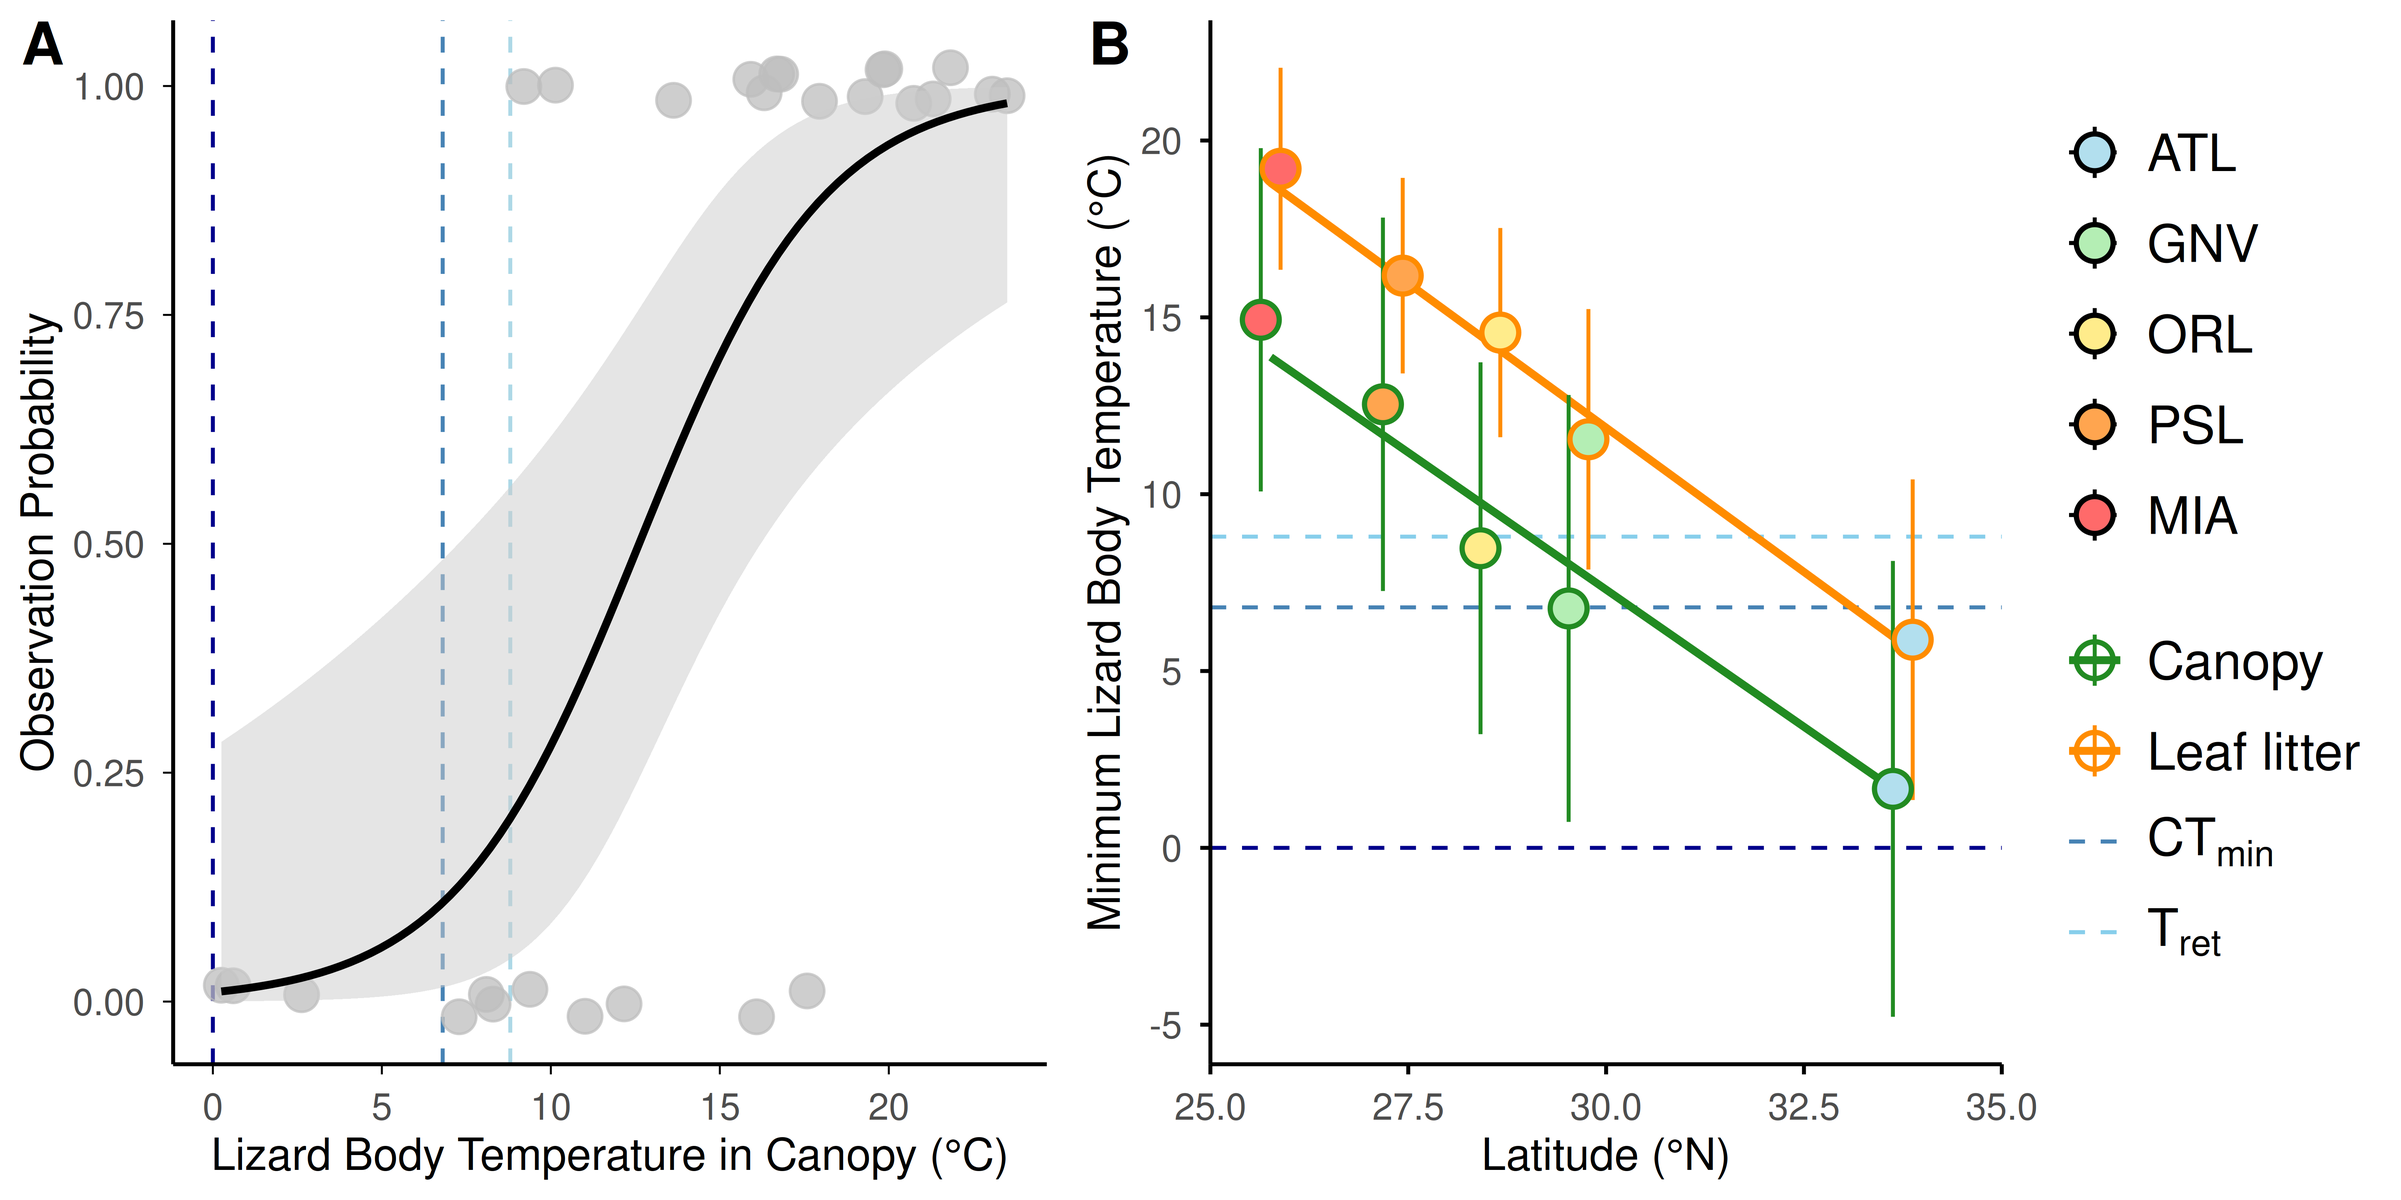
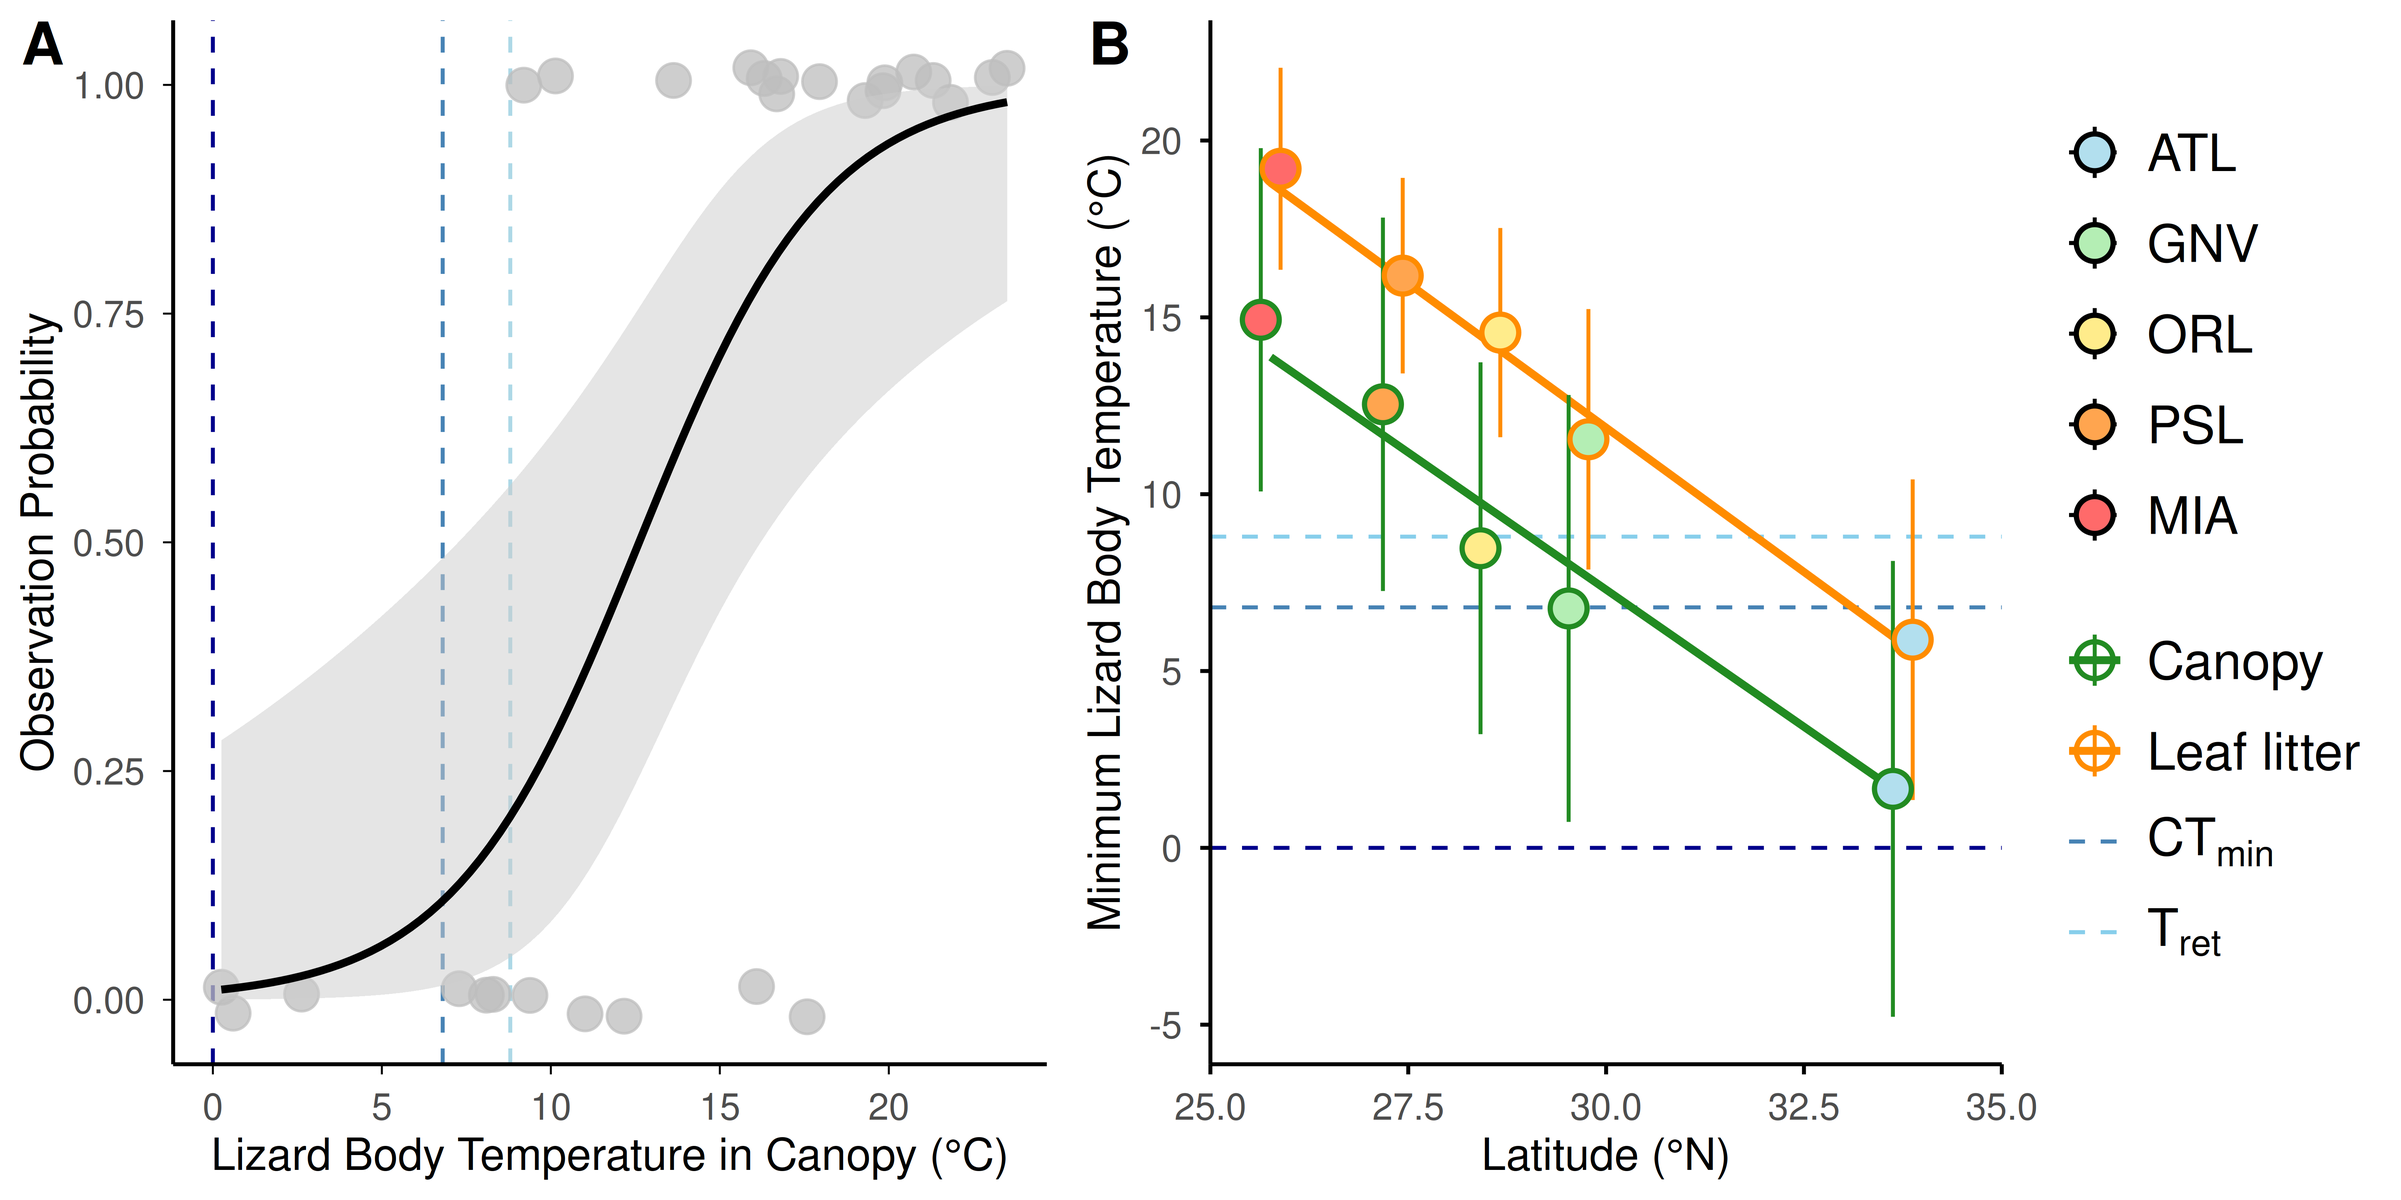
updating some tables

diff --git a/docs/leaf-litter-retreat.html b/docs/leaf-litter-retreat.html
@@ -305,7 +305,7 @@ pre > code.sourceCode > span > a:first-child::before { text-decoration: underlin
 <span id="cb2-87"><a href="#cb2-87" aria-hidden="true" tabindex="-1"></a><span class="co"># plot observation probability and OTM data</span></span>
 <span id="cb2-88"><a href="#cb2-88" aria-hidden="true" tabindex="-1"></a>obs_plot <span class="ot">&lt;-</span> <span class="fu">ggplot</span>() <span class="sc">+</span></span>
 <span id="cb2-89"><a href="#cb2-89" aria-hidden="true" tabindex="-1"></a>  <span class="fu">geom_hline</span>(</span>
-<span id="cb2-90"><a href="#cb2-90" aria-hidden="true" tabindex="-1"></a>    <span class="at">yintercept =</span> <span class="fu">c</span>(<span class="dv">1</span>, <span class="dv">0</span>, ctmin_atl <span class="sc">/</span> <span class="fu">max</span>(otm_data_ATL<span class="sc">$</span>mean_temp, <span class="at">na.rm =</span> <span class="cn">TRUE</span>)),</span>
+<span id="cb2-90"><a href="#cb2-90" aria-hidden="true" tabindex="-1"></a>    <span class="at">yintercept =</span> <span class="fu">c</span>(<span class="dv">1</span>, <span class="dv">0</span>, <span class="fl">6.8</span> <span class="sc">/</span> <span class="fu">max</span>(otm_data_ATL<span class="sc">$</span>mean_temp, <span class="at">na.rm =</span> <span class="cn">TRUE</span>)),</span>
 <span id="cb2-91"><a href="#cb2-91" aria-hidden="true" tabindex="-1"></a>    <span class="at">linetype =</span> <span class="st">"dashed"</span>,</span>
 <span id="cb2-92"><a href="#cb2-92" aria-hidden="true" tabindex="-1"></a>    <span class="at">color =</span> <span class="fu">c</span>(<span class="st">"gray80"</span>, <span class="st">"darkblue"</span>, <span class="st">"steelblue"</span>),</span>
 <span id="cb2-93"><a href="#cb2-93" aria-hidden="true" tabindex="-1"></a>    <span class="at">alpha =</span> <span class="fl">0.5</span></span>
@@ -743,42 +743,47 @@ pre > code.sourceCode > span > a:first-child::before { text-decoration: underlin
 <details class="code-fold">
 <summary>Code</summary>
 <div class="code-copy-outer-scaffold"><div class="sourceCode cell-code" id="cb15"><pre class="sourceCode r code-with-copy"><code class="sourceCode r"><span id="cb15-1"><a href="#cb15-1" aria-hidden="true" tabindex="-1"></a>otms_data_sum <span class="sc">|&gt;</span></span>
-<span id="cb15-2"><a href="#cb15-2" aria-hidden="true" tabindex="-1"></a>  <span class="fu">group_by</span>(location, lat, microhabitat) <span class="sc">|&gt;</span></span>
+<span id="cb15-2"><a href="#cb15-2" aria-hidden="true" tabindex="-1"></a>  <span class="fu">group_by</span>(location, lat, microhabitat, id) <span class="sc">|&gt;</span></span>
 <span id="cb15-3"><a href="#cb15-3" aria-hidden="true" tabindex="-1"></a>  <span class="fu">summarise</span>(</span>
 <span id="cb15-4"><a href="#cb15-4" aria-hidden="true" tabindex="-1"></a>    <span class="at">mean_min_temp =</span> <span class="fu">mean</span>(min_temp, <span class="at">na.rm =</span> <span class="cn">TRUE</span>),</span>
-<span id="cb15-5"><a href="#cb15-5" aria-hidden="true" tabindex="-1"></a>    <span class="at">sd_min_temp =</span> <span class="fu">sd</span>(min_temp, <span class="at">na.rm =</span> <span class="cn">TRUE</span>),</span>
-<span id="cb15-6"><a href="#cb15-6" aria-hidden="true" tabindex="-1"></a>    <span class="at">n =</span> <span class="fu">n</span>()</span>
-<span id="cb15-7"><a href="#cb15-7" aria-hidden="true" tabindex="-1"></a>  ) <span class="sc">|&gt;</span></span>
-<span id="cb15-8"><a href="#cb15-8" aria-hidden="true" tabindex="-1"></a>  <span class="fu">mutate</span>(</span>
-<span id="cb15-9"><a href="#cb15-9" aria-hidden="true" tabindex="-1"></a>    <span class="at">est =</span> <span class="fu">paste</span>(</span>
-<span id="cb15-10"><a href="#cb15-10" aria-hidden="true" tabindex="-1"></a>      <span class="fu">round</span>(mean_min_temp, <span class="dv">1</span>), <span class="st">"±"</span>,</span>
-<span id="cb15-11"><a href="#cb15-11" aria-hidden="true" tabindex="-1"></a>      <span class="fu">round</span>(sd_min_temp, <span class="dv">1</span>), <span class="st">"°C (n ="</span>, n, <span class="st">")"</span></span>
-<span id="cb15-12"><a href="#cb15-12" aria-hidden="true" tabindex="-1"></a>    ),</span>
-<span id="cb15-13"><a href="#cb15-13" aria-hidden="true" tabindex="-1"></a>  ) <span class="sc">|&gt;</span></span>
-<span id="cb15-14"><a href="#cb15-14" aria-hidden="true" tabindex="-1"></a>  <span class="fu">mutate</span>(</span>
-<span id="cb15-15"><a href="#cb15-15" aria-hidden="true" tabindex="-1"></a>    <span class="at">microhabitat =</span> <span class="fu">ifelse</span>(microhabitat <span class="sc">==</span> <span class="st">"branch"</span>, <span class="st">"Canopy"</span>, <span class="st">"Leaf litter"</span>)</span>
-<span id="cb15-16"><a href="#cb15-16" aria-hidden="true" tabindex="-1"></a>  ) <span class="sc">|&gt;</span></span>
-<span id="cb15-17"><a href="#cb15-17" aria-hidden="true" tabindex="-1"></a>  <span class="fu">select</span>(location, lat, microhabitat, est, mean_min_temp) <span class="sc">|&gt;</span></span>
-<span id="cb15-18"><a href="#cb15-18" aria-hidden="true" tabindex="-1"></a>  <span class="fu">pivot_wider</span>(</span>
-<span id="cb15-19"><a href="#cb15-19" aria-hidden="true" tabindex="-1"></a>    <span class="at">names_from =</span> microhabitat,</span>
-<span id="cb15-20"><a href="#cb15-20" aria-hidden="true" tabindex="-1"></a>    <span class="at">values_from =</span> <span class="fu">c</span>(est, mean_min_temp)</span>
+<span id="cb15-5"><a href="#cb15-5" aria-hidden="true" tabindex="-1"></a>    <span class="at">abs_min_temp =</span> <span class="fu">min</span>(min_temp, <span class="at">na.rm =</span> <span class="cn">TRUE</span>)</span>
+<span id="cb15-6"><a href="#cb15-6" aria-hidden="true" tabindex="-1"></a>  ) <span class="sc">|&gt;</span></span>
+<span id="cb15-7"><a href="#cb15-7" aria-hidden="true" tabindex="-1"></a>  <span class="fu">group_by</span>(location, lat, microhabitat) <span class="sc">|&gt;</span></span>
+<span id="cb15-8"><a href="#cb15-8" aria-hidden="true" tabindex="-1"></a>  <span class="fu">summarise</span>(</span>
+<span id="cb15-9"><a href="#cb15-9" aria-hidden="true" tabindex="-1"></a>    <span class="at">mean_mt =</span> <span class="fu">mean</span>(mean_min_temp, <span class="at">na.rm =</span> <span class="cn">TRUE</span>),</span>
+<span id="cb15-10"><a href="#cb15-10" aria-hidden="true" tabindex="-1"></a>    <span class="at">sd_mt =</span> <span class="fu">sd</span>(mean_min_temp, <span class="at">na.rm =</span> <span class="cn">TRUE</span>),</span>
+<span id="cb15-11"><a href="#cb15-11" aria-hidden="true" tabindex="-1"></a>    <span class="at">abs_mt =</span> <span class="fu">mean</span>(abs_min_temp, <span class="at">na.rm =</span> <span class="cn">TRUE</span>)</span>
+<span id="cb15-12"><a href="#cb15-12" aria-hidden="true" tabindex="-1"></a>  ) <span class="sc">|&gt;</span></span>
+<span id="cb15-13"><a href="#cb15-13" aria-hidden="true" tabindex="-1"></a>  <span class="fu">mutate</span>(</span>
+<span id="cb15-14"><a href="#cb15-14" aria-hidden="true" tabindex="-1"></a>    <span class="at">est =</span> <span class="fu">paste</span>(</span>
+<span id="cb15-15"><a href="#cb15-15" aria-hidden="true" tabindex="-1"></a>      <span class="fu">round</span>(mean_mt, <span class="dv">1</span>), <span class="st">"±"</span>,</span>
+<span id="cb15-16"><a href="#cb15-16" aria-hidden="true" tabindex="-1"></a>      <span class="fu">round</span>(sd_mt, <span class="dv">1</span>), <span class="st">"°C (min ="</span>, <span class="fu">round</span>(abs_mt, <span class="dv">1</span>), <span class="st">")"</span></span>
+<span id="cb15-17"><a href="#cb15-17" aria-hidden="true" tabindex="-1"></a>    ),</span>
+<span id="cb15-18"><a href="#cb15-18" aria-hidden="true" tabindex="-1"></a>  ) <span class="sc">|&gt;</span></span>
+<span id="cb15-19"><a href="#cb15-19" aria-hidden="true" tabindex="-1"></a>  <span class="fu">mutate</span>(</span>
+<span id="cb15-20"><a href="#cb15-20" aria-hidden="true" tabindex="-1"></a>    <span class="at">microhabitat =</span> <span class="fu">ifelse</span>(microhabitat <span class="sc">==</span> <span class="st">"branch"</span>, <span class="st">"Canopy"</span>, <span class="st">"Leaf litter"</span>)</span>
 <span id="cb15-21"><a href="#cb15-21" aria-hidden="true" tabindex="-1"></a>  ) <span class="sc">|&gt;</span></span>
-<span id="cb15-22"><a href="#cb15-22" aria-hidden="true" tabindex="-1"></a>  <span class="fu">mutate</span>(</span>
-<span id="cb15-23"><a href="#cb15-23" aria-hidden="true" tabindex="-1"></a>    <span class="at">buffering =</span> <span class="fu">round</span>(<span class="st">`</span><span class="at">mean_min_temp_Leaf litter</span><span class="st">`</span> <span class="sc">-</span> mean_min_temp_Canopy, <span class="dv">1</span>)</span>
-<span id="cb15-24"><a href="#cb15-24" aria-hidden="true" tabindex="-1"></a>  ) <span class="sc">|&gt;</span></span>
-<span id="cb15-25"><a href="#cb15-25" aria-hidden="true" tabindex="-1"></a>  <span class="fu">select</span>(location, lat, est_Canopy, <span class="st">`</span><span class="at">est_Leaf litter</span><span class="st">`</span>, buffering) <span class="sc">|&gt;</span></span>
-<span id="cb15-26"><a href="#cb15-26" aria-hidden="true" tabindex="-1"></a>  <span class="fu">kbl</span>(</span>
-<span id="cb15-27"><a href="#cb15-27" aria-hidden="true" tabindex="-1"></a>    <span class="at">col.names =</span> <span class="fu">c</span>(</span>
-<span id="cb15-28"><a href="#cb15-28" aria-hidden="true" tabindex="-1"></a>      <span class="st">"Location"</span>, <span class="st">"Latitude (°N)"</span>, <span class="st">"Canopy"</span>,</span>
-<span id="cb15-29"><a href="#cb15-29" aria-hidden="true" tabindex="-1"></a>      <span class="st">"Leaf litter"</span>, <span class="st">"Average Buffering (°C)"</span></span>
-<span id="cb15-30"><a href="#cb15-30" aria-hidden="true" tabindex="-1"></a>    ),</span>
-<span id="cb15-31"><a href="#cb15-31" aria-hidden="true" tabindex="-1"></a>    <span class="at">align =</span> <span class="st">"c"</span>,</span>
-<span id="cb15-32"><a href="#cb15-32" aria-hidden="true" tabindex="-1"></a>  ) <span class="sc">|&gt;</span></span>
-<span id="cb15-33"><a href="#cb15-33" aria-hidden="true" tabindex="-1"></a>  <span class="fu">kable_styling</span>(</span>
-<span id="cb15-34"><a href="#cb15-34" aria-hidden="true" tabindex="-1"></a>    <span class="at">full_width =</span> <span class="cn">FALSE</span>,</span>
-<span id="cb15-35"><a href="#cb15-35" aria-hidden="true" tabindex="-1"></a>    <span class="at">position =</span> <span class="st">"center"</span>,</span>
-<span id="cb15-36"><a href="#cb15-36" aria-hidden="true" tabindex="-1"></a>    <span class="at">font_size =</span> <span class="dv">12</span></span>
-<span id="cb15-37"><a href="#cb15-37" aria-hidden="true" tabindex="-1"></a>  )</span></code></pre></div><button title="Copy to Clipboard" class="code-copy-button"><i class="bi"></i></button></div>
+<span id="cb15-22"><a href="#cb15-22" aria-hidden="true" tabindex="-1"></a>  <span class="fu">select</span>(location, lat, microhabitat, est, mean_mt) <span class="sc">|&gt;</span></span>
+<span id="cb15-23"><a href="#cb15-23" aria-hidden="true" tabindex="-1"></a>  <span class="fu">pivot_wider</span>(</span>
+<span id="cb15-24"><a href="#cb15-24" aria-hidden="true" tabindex="-1"></a>    <span class="at">names_from =</span> microhabitat,</span>
+<span id="cb15-25"><a href="#cb15-25" aria-hidden="true" tabindex="-1"></a>    <span class="at">values_from =</span> <span class="fu">c</span>(est, mean_mt)</span>
+<span id="cb15-26"><a href="#cb15-26" aria-hidden="true" tabindex="-1"></a>  ) <span class="sc">|&gt;</span></span>
+<span id="cb15-27"><a href="#cb15-27" aria-hidden="true" tabindex="-1"></a>  <span class="fu">mutate</span>(</span>
+<span id="cb15-28"><a href="#cb15-28" aria-hidden="true" tabindex="-1"></a>    <span class="at">buffering =</span> <span class="fu">round</span>(<span class="st">`</span><span class="at">mean_mt_Leaf litter</span><span class="st">`</span> <span class="sc">-</span> mean_mt_Canopy, <span class="dv">1</span>)</span>
+<span id="cb15-29"><a href="#cb15-29" aria-hidden="true" tabindex="-1"></a>  ) <span class="sc">|&gt;</span></span>
+<span id="cb15-30"><a href="#cb15-30" aria-hidden="true" tabindex="-1"></a>  <span class="fu">select</span>(location, lat, est_Canopy, <span class="st">`</span><span class="at">est_Leaf litter</span><span class="st">`</span>, buffering) <span class="sc">|&gt;</span></span>
+<span id="cb15-31"><a href="#cb15-31" aria-hidden="true" tabindex="-1"></a>  <span class="fu">kbl</span>(</span>
+<span id="cb15-32"><a href="#cb15-32" aria-hidden="true" tabindex="-1"></a>    <span class="at">col.names =</span> <span class="fu">c</span>(</span>
+<span id="cb15-33"><a href="#cb15-33" aria-hidden="true" tabindex="-1"></a>      <span class="st">"Location"</span>, <span class="st">"Latitude (°N)"</span>, <span class="st">"Canopy"</span>,</span>
+<span id="cb15-34"><a href="#cb15-34" aria-hidden="true" tabindex="-1"></a>      <span class="st">"Leaf litter"</span>, <span class="st">"Average Buffering (°C)"</span></span>
+<span id="cb15-35"><a href="#cb15-35" aria-hidden="true" tabindex="-1"></a>    ),</span>
+<span id="cb15-36"><a href="#cb15-36" aria-hidden="true" tabindex="-1"></a>    <span class="at">align =</span> <span class="st">"c"</span>,</span>
+<span id="cb15-37"><a href="#cb15-37" aria-hidden="true" tabindex="-1"></a>  ) <span class="sc">|&gt;</span></span>
+<span id="cb15-38"><a href="#cb15-38" aria-hidden="true" tabindex="-1"></a>  <span class="fu">kable_styling</span>(</span>
+<span id="cb15-39"><a href="#cb15-39" aria-hidden="true" tabindex="-1"></a>    <span class="at">full_width =</span> <span class="cn">FALSE</span>,</span>
+<span id="cb15-40"><a href="#cb15-40" aria-hidden="true" tabindex="-1"></a>    <span class="at">position =</span> <span class="st">"center"</span>,</span>
+<span id="cb15-41"><a href="#cb15-41" aria-hidden="true" tabindex="-1"></a>    <span class="at">font_size =</span> <span class="dv">12</span></span>
+<span id="cb15-42"><a href="#cb15-42" aria-hidden="true" tabindex="-1"></a>  )</span></code></pre></div><button title="Copy to Clipboard" class="code-copy-button"><i class="bi"></i></button></div>
 </details>
 <div class="cell-output-display">
 <table quarto-disable-processing="true" class="table" style="font-size: 12px; width: auto !important; margin-left: auto; margin-right: auto;">
@@ -795,36 +800,36 @@ pre > code.sourceCode > span > a:first-child::before { text-decoration: underlin
   <tr>
    <td style="text-align:center;"> ATL </td>
    <td style="text-align:center;"> 33.7490 </td>
-   <td style="text-align:center;"> 1.7 ± 6.4 °C (n = 372 ) </td>
-   <td style="text-align:center;"> 5.9 ± 4.5 °C (n = 279 ) </td>
+   <td style="text-align:center;"> 1.7 ± 0.4 °C (min = -10.6 ) </td>
+   <td style="text-align:center;"> 5.9 ± 1.8 °C (min = -1.3 ) </td>
    <td style="text-align:center;"> 4.2 </td>
   </tr>
   <tr>
    <td style="text-align:center;"> GNV </td>
    <td style="text-align:center;"> 29.6516 </td>
-   <td style="text-align:center;"> 6.8 ± 6 °C (n = 90 ) </td>
-   <td style="text-align:center;"> 11.6 ± 3.7 °C (n = 90 ) </td>
+   <td style="text-align:center;"> 6.8 ± 0.1 °C (min = -2.4 ) </td>
+   <td style="text-align:center;"> 11.6 ± 1 °C (min = 6.5 ) </td>
    <td style="text-align:center;"> 4.8 </td>
   </tr>
   <tr>
    <td style="text-align:center;"> MIA </td>
    <td style="text-align:center;"> 25.7617 </td>
-   <td style="text-align:center;"> 14.9 ± 4.9 °C (n = 58 ) </td>
-   <td style="text-align:center;"> 19.2 ± 2.9 °C (n = 87 ) </td>
+   <td style="text-align:center;"> 14.9 ± 0.3 °C (min = 5.5 ) </td>
+   <td style="text-align:center;"> 19.2 ± 0.5 °C (min = 14.2 ) </td>
    <td style="text-align:center;"> 4.3 </td>
   </tr>
   <tr>
    <td style="text-align:center;"> ORL </td>
    <td style="text-align:center;"> 28.5383 </td>
-   <td style="text-align:center;"> 8.5 ± 5.3 °C (n = 88 ) </td>
-   <td style="text-align:center;"> 14.6 ± 3 °C (n = 58 ) </td>
+   <td style="text-align:center;"> 8.5 ± 0.3 °C (min = -1 ) </td>
+   <td style="text-align:center;"> 14.6 ± 1.6 °C (min = 9.8 ) </td>
    <td style="text-align:center;"> 6.1 </td>
   </tr>
   <tr>
    <td style="text-align:center;"> PSL </td>
    <td style="text-align:center;"> 27.3050 </td>
-   <td style="text-align:center;"> 12.5 ± 5.3 °C (n = 60 ) </td>
-   <td style="text-align:center;"> 16.2 ± 2.8 °C (n = 60 ) </td>
+   <td style="text-align:center;"> 12.5 ± 0.2 °C (min = 3.5 ) </td>
+   <td style="text-align:center;"> 16.2 ± 0.5 °C (min = 11.5 ) </td>
    <td style="text-align:center;"> 3.6 </td>
   </tr>
 </tbody>
